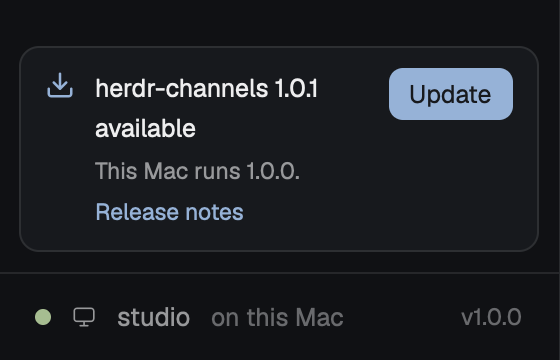
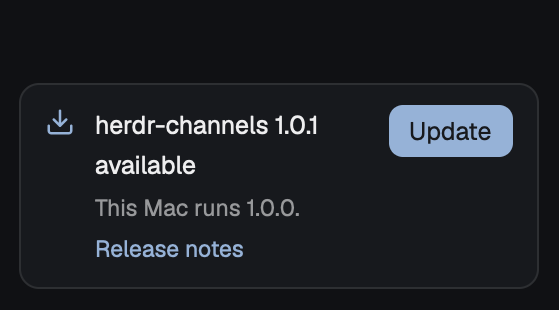
docs: Release row screenshot in the sidebar as it is now
Claude-Session: https://claude.ai/code/session_01Nb4n9WjEbwkRGAFWJ3kouV

diff --git a/README.md b/README.md
@@ -194,7 +194,7 @@ The routines timer looks up the latest release every four hours: one unauthentic
 Mac or its user. When a newer release is out, a row under the channels in the sidebar says so, with a link
 to its release notes and an **Update** button. Nothing is updated until the button is clicked.
 
-<img src="docs/release-row.png" width="280" alt="The bottom of the channels sidebar: a row with a download arrow, herdr-channels 1.0.1 available, This Mac runs 1.0.0, a Release notes link and an Update button, above the studio, on this Mac footer with v1.0.0 at its right">
+<img src="docs/release-row.png" width="280" alt="The release row in the channels sidebar: a download arrow, herdr-channels 1.0.1 available, This Mac runs 1.0.0, a Release notes link and an Update button">
 
 Update, or the same from a terminal:
 
